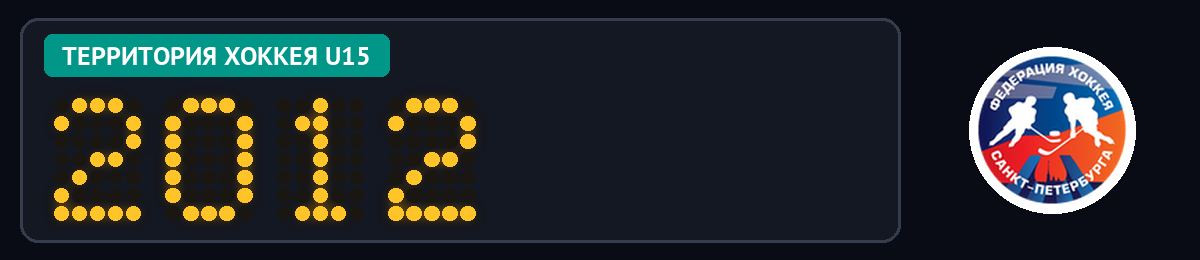
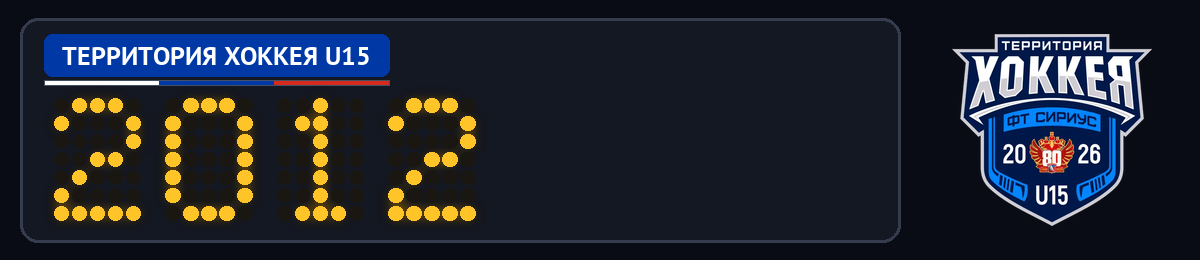
«Территория хоккея»: плашка и логотип; протокол с сайта игры

Changed region(s): [[0.7708, 0.1231, 0.9558, 0.8615], [0.0308, 0.1231, 0.3392, 0.3385]]

diff --git a/junior2_patch.py b/junior2_patch.py
@@ -1,0 +1,101 @@
+#!/usr/bin/env python3
+"""
+1. generate_banner_v3.py: «Территория хоккея» — плашка как у Кубка России
+   (синяя с триколором); свой логотип турнира без круга
+   (python3 generate_banner_v3.py --fetch-territoriya-logo [НОМЕР]).
+2. post_schedule.py: протокол матча (вратари, штрафы, передачи) берётся с сайта
+   самой игры — для Кубка России и «Территории хоккея» с junior.fhr.ru, а не
+   с spb.fhr.ru. Теперь у них на баннере та же сводка, что у Кубка СПб.
+
+Запуск (из ~/vk-bot):  python3 junior2_patch.py
+"""
+import shutil
+import sys
+from pathlib import Path
+
+BASE = Path(__file__).parent
+
+GEN = [
+    ('''             TERRITORIYA_TEAL if tournament.startswith("ТЕРРИТОРИЯ") else CUP_AMBER)''',
+     '''             ROSSII_BLUE if tournament.startswith("ТЕРРИТОРИЯ") else CUP_AMBER)'''),
+    ('''    if tournament == "КУБОК РОССИИ":                  # триколор под плашкой''',
+     '''    if tournament == "КУБОК РОССИИ" or tournament.startswith("ТЕРРИТОРИЯ"):   # триколор под плашкой'''),
+    ('''    if tournament == "КУБОК РОССИИ" and KR_LOGO_PATH.exists():
+        # Логотип Кубка России — без круга, крупнее, без собственного фона
+        logo = _logo_without_background(Image.open(KR_LOGO_PATH))''',
+     '''    own_logo = (KR_LOGO_PATH if tournament == "КУБОК РОССИИ" else
+                TERR_LOGO_PATH if tournament.startswith("ТЕРРИТОРИЯ") else None)
+    if own_logo is not None and own_logo.exists():
+        # Свой логотип турнира — без круга, крупнее, без собственного фона
+        logo = _logo_without_background(Image.open(own_logo))'''),
+    ('''KR_LOGO_PATH = BASE / "kubok_rossii_logo.png"''',
+     '''TERR_LOGO_PATH = BASE / "territoriya_logo.png" # логотип «Территории хоккея» (--fetch-territoriya-logo)
+KR_LOGO_PATH = BASE / "kubok_rossii_logo.png"'''),
+    ('''def fetch_kr_logo(pick=None):''', '''def fetch_kr_logo(pick=None, slug=None, out=None, flag="--fetch-kr-logo"):'''),
+    ('''    page = s.get(f"{base}/tournaments/{c.KUBOK_ROSSII_TOURNAMENT_SLUG}/", timeout=25).text''',
+     '''    slug = slug or c.KUBOK_ROSSII_TOURNAMENT_SLUG
+    out = out or KR_LOGO_PATH
+    page = s.get(f"{base}/tournaments/{slug}/", timeout=25).text'''),
+    ('''    Image.open(io.BytesIO(data)).convert("RGBA").save(KR_LOGO_PATH)
+    print(f"Сохранён [{pick}] как {KR_LOGO_PATH.name} — откройте и проверьте: open {KR_LOGO_PATH.name}")
+    print("Если это не тот логотип, выберите другой номер: python3 generate_banner_v3.py --fetch-kr-logo НОМЕР")''',
+     '''    Image.open(io.BytesIO(data)).convert("RGBA").save(out)
+    print(f"Сохранён [{pick}] как {out.name} — откройте и проверьте: open {out.name}")
+    print(f"Если это не тот логотип, выберите другой номер: python3 generate_banner_v3.py {flag} НОМЕР")'''),
+    ('''    if "--fetch-kr-logo" in sys.argv:''',
+     '''    if "--fetch-territoriya-logo" in sys.argv:
+        i = sys.argv.index("--fetch-territoriya-logo")
+        n = int(sys.argv[i + 1]) if len(sys.argv) > i + 1 and sys.argv[i + 1].isdigit() else None
+        fetch_kr_logo(n, "territoriya-khokkeya-u15-26308586", TERR_LOGO_PATH, "--fetch-territoriya-logo")
+        return
+    if "--fetch-kr-logo" in sys.argv:'''),
+]
+
+PS = [
+    ('''def _protocol_summary(game_id, expected_goals):''', '''def _protocol_summary(game_id, expected_goals, url=None):'''),
+    ('''        if _protocol_session is None:
+            _protocol_session = spb_fhr_client.create_session()
+        page = _protocol_session.get(f"https://spb.fhr.ru/games/{game_id}/", timeout=25).text''',
+     '''        target = url or f"https://spb.fhr.ru/games/{game_id}/"      # протокол — с сайта самой игры
+        if spb_fhr_client.KUBOK_ROSSII_DOMAIN in target:
+            session = _PROTOCOL_SESSIONS.get("junior") or _PROTOCOL_SESSIONS.setdefault(
+                "junior", spb_fhr_client.create_session_kubok_rossii())
+        else:
+            if _protocol_session is None:
+                _protocol_session = spb_fhr_client.create_session()
+            session = _protocol_session
+        page = session.get(target, timeout=25).text'''),
+    ('''_protocol_session = None
+''', '''_protocol_session = None
+_PROTOCOL_SESSIONS = {}
+'''),
+    ('''    summary = _protocol_summary(sm["game_id"], sc[0] + sc[1])''',
+     '''    summary = _protocol_summary(sm["game_id"], sc[0] + sc[1], sm.get("game_url"))'''),
+]
+
+
+def patch(path, items, marker):
+    c = path.read_text(encoding="utf-8")
+    if marker in c:
+        print(f"{path.name}: уже исправлено")
+        return False
+    missing = [o[:50] for o, _ in items if c.count(o) != 1]
+    if missing:
+        print(f"{path.name}: НЕ найдено {missing} — файл НЕ изменён")
+        return False
+    shutil.copy(path, path.with_name(path.name + ".bak_junior2"))
+    for o, n in items:
+        c = c.replace(o, n, 1)
+    path.write_text(c, encoding="utf-8")
+    return True
+
+
+def main():
+    if patch(BASE / "generate_banner_v3.py", GEN, "TERR_LOGO_PATH"):
+        print("generate_banner_v3.py: «Территория хоккея» — плашка как у Кубка России, свой логотип")
+    if patch(BASE / "post_schedule.py", PS, "_PROTOCOL_SESSIONS"):
+        print("post_schedule.py: протокол матча — с сайта самой игры (junior.fhr.ru для Кубка России и «Территории»)")
+
+
+if __name__ == "__main__":
+    main()

diff --git a/generate_banner_v3.py b/generate_banner_v3.py
@@ -39,6 +39,7 @@ PLATES = {
 TERRITORIYA_TEAL = (0, 150, 136)              # «Территория хоккея» — бирюзовая плашка
 FRIENDLY_GREEN = (40, 170, 90)
 ROSSII_BLUE = (0, 57, 166)                    # Кубок России — синяя плашка с триколором
+TERR_LOGO_PATH = BASE / "territoriya_logo.png" # логотип «Территории хоккея» (--fetch-territoriya-logo)
 KR_LOGO_PATH = BASE / "kubok_rossii_logo.png" # логотип Кубка России (python3 generate_banner_v3.py --fetch-kr-logo)
 
 # Точечный шрифт 5×7, как на табло
@@ -89,14 +90,14 @@ def make_banner(year, group=None, tournament="ПЕРВЕНСТВО", out_path=No
     plate = (GROUP_COLOR[group] if tournament == "ПЕРВЕНСТВО" else
              FRIENDLY_GREEN if tournament == "ТОВАРИЩЕСКИЙ" else
              ROSSII_BLUE if tournament == "КУБОК РОССИИ" else
-             TERRITORIYA_TEAL if tournament.startswith("ТЕРРИТОРИЯ") else CUP_AMBER)
+             ROSSII_BLUE if tournament.startswith("ТЕРРИТОРИЯ") else CUP_AMBER)
     ink = (255, 255, 255) if (tournament in ("ПЕРВЕНСТВО", "ТОВАРИЩЕСКИЙ", "КУБОК РОССИИ")
                               or tournament.startswith("ТЕРРИТОРИЯ")) else (20, 20, 20)
     pf = font(26)
     pw = d.textlength(label, font=pf) + 36
     d.rounded_rectangle([44, 34, 44 + pw, 76], radius=8, fill=plate)
     d.text((62, 55), label, font=pf, fill=ink, anchor="lm")
-    if tournament == "КУБОК РОССИИ":                  # триколор под плашкой
+    if tournament == "КУБОК РОССИИ" or tournament.startswith("ТЕРРИТОРИЯ"):   # триколор под плашкой
         third = pw / 3
         for i, col in enumerate(((255, 255, 255), (0, 57, 166), (213, 43, 30))):
             d.rectangle([44 + i * third, 80, 44 + (i + 1) * third, 85], fill=col)
@@ -117,9 +118,11 @@ def make_banner(year, group=None, tournament="ПЕРВЕНСТВО", out_path=No
         led(d, letter, end + 44, 136, 12, GROUP_LED[group], (24, 26, 32))
 
     size, cx, cy = 150, 1052, H // 2
-    if tournament == "КУБОК РОССИИ" and KR_LOGO_PATH.exists():
-        # Логотип Кубка России — без круга, крупнее, без собственного фона
-        logo = _logo_without_background(Image.open(KR_LOGO_PATH))
+    own_logo = (KR_LOGO_PATH if tournament == "КУБОК РОССИИ" else
+                TERR_LOGO_PATH if tournament.startswith("ТЕРРИТОРИЯ") else None)
+    if own_logo is not None and own_logo.exists():
+        # Свой логотип турнира — без круга, крупнее, без собственного фона
+        logo = _logo_without_background(Image.open(own_logo))
         box = 200
         k = min(box / logo.width, box / logo.height)
         logo = logo.resize((max(1, round(logo.width * k)), max(1, round(logo.height * k))), Image.LANCZOS)
@@ -178,7 +181,7 @@ SET = (
 )
 
 
-def fetch_kr_logo(pick=None):
+def fetch_kr_logo(pick=None, slug=None, out=None, flag="--fetch-kr-logo"):
     """Логотип Кубка России со страницы турнира: показывает картинки-кандидаты и сохраняет выбранную."""
     import io
     import re
@@ -187,7 +190,9 @@ def fetch_kr_logo(pick=None):
     import spb_fhr_client as c
     s = c.create_session_kubok_rossii()
     base = f"https://{c.KUBOK_ROSSII_DOMAIN}"
-    page = s.get(f"{base}/tournaments/{c.KUBOK_ROSSII_TOURNAMENT_SLUG}/", timeout=25).text
+    slug = slug or c.KUBOK_ROSSII_TOURNAMENT_SLUG
+    out = out or KR_LOGO_PATH
+    page = s.get(f"{base}/tournaments/{slug}/", timeout=25).text
     imgs = []
     for u in re.findall(r'<img[^>]+?(?:data-src|src)="([^"]+)"', page):
         if re.search(r"teams|default|sprite|flag|avatar|icons?/", u) or u in imgs:
@@ -201,15 +206,20 @@ def fetch_kr_logo(pick=None):
     if pick is None:
         pick = next((i for i, u in enumerate(imgs) if re.search(r"tournament|logo|upload|iblock", u, re.I)), 0)
     data = s.get(imgs[pick], timeout=25).content
-    Image.open(io.BytesIO(data)).convert("RGBA").save(KR_LOGO_PATH)
-    print(f"Сохранён [{pick}] как {KR_LOGO_PATH.name} — откройте и проверьте: open {KR_LOGO_PATH.name}")
-    print("Если это не тот логотип, выберите другой номер: python3 generate_banner_v3.py --fetch-kr-logo НОМЕР")
+    Image.open(io.BytesIO(data)).convert("RGBA").save(out)
+    print(f"Сохранён [{pick}] как {out.name} — откройте и проверьте: open {out.name}")
+    print(f"Если это не тот логотип, выберите другой номер: python3 generate_banner_v3.py {flag} НОМЕР")
 
 
 FRIENDLY_SET = ([(str(y), f"friendly_{y}.png") for y in range(2009, 2019)] + [(None, "friendly_unknown.png")])
 
 
 def main():
+    if "--fetch-territoriya-logo" in sys.argv:
+        i = sys.argv.index("--fetch-territoriya-logo")
+        n = int(sys.argv[i + 1]) if len(sys.argv) > i + 1 and sys.argv[i + 1].isdigit() else None
+        fetch_kr_logo(n, "territoriya-khokkeya-u15-26308586", TERR_LOGO_PATH, "--fetch-territoriya-logo")
+        return
     if "--fetch-kr-logo" in sys.argv:
         i = sys.argv.index("--fetch-kr-logo")
         fetch_kr_logo(int(sys.argv[i + 1]) if len(sys.argv) > i + 1 and sys.argv[i + 1].isdigit() else None)

diff --git a/post_schedule.py b/post_schedule.py
@@ -1342,9 +1342,10 @@ PROTOCOL_CACHE_FILE = Path(__file__).parent / "spb_protocol_cache.json"
 PROTOCOL_RETRY_SECONDS = 900
 _protocol_cache = None
 _protocol_session = None
+_PROTOCOL_SESSIONS = {}
 
 
-def _protocol_summary(game_id, expected_goals):
+def _protocol_summary(game_id, expected_goals, url=None):
     """Сводка протокола матча (из памяти; загрузка — один раз)."""
     global _protocol_cache, _protocol_session
     if spb_protocol is None or spb_fhr_client is None:
@@ -1358,9 +1359,15 @@ def _protocol_summary(game_id, expected_goals):
     if entry and (entry.get("complete") or time.time() - entry.get("fetched", 0) < PROTOCOL_RETRY_SECONDS):
         return entry.get("summary")
     try:
-        if _protocol_session is None:
-            _protocol_session = spb_fhr_client.create_session()
-        page = _protocol_session.get(f"https://spb.fhr.ru/games/{game_id}/", timeout=25).text
+        target = url or f"https://spb.fhr.ru/games/{game_id}/"      # протокол — с сайта самой игры
+        if spb_fhr_client.KUBOK_ROSSII_DOMAIN in target:
+            session = _PROTOCOL_SESSIONS.get("junior") or _PROTOCOL_SESSIONS.setdefault(
+                "junior", spb_fhr_client.create_session_kubok_rossii())
+        else:
+            if _protocol_session is None:
+                _protocol_session = spb_fhr_client.create_session()
+            session = _protocol_session
+        page = session.get(target, timeout=25).text
         summary = spb_protocol.summarize(page)
     except Exception as e:
         print(f"[WARN] Протокол матча {game_id} не получен: {e}")
@@ -1378,7 +1385,7 @@ def _protocol_extras(m, spb_lookup, score):
     sm = (spb_lookup or {}).get(build_match_key(plain_date(m["date"]), m["team1"], m["team2"]))
     if not sc or not sm:
         return {}
-    summary = _protocol_summary(sm["game_id"], sc[0] + sc[1])
+    summary = _protocol_summary(sm["game_id"], sc[0] + sc[1], sm.get("game_url"))
     if not summary:
         return {}
     import difflib
